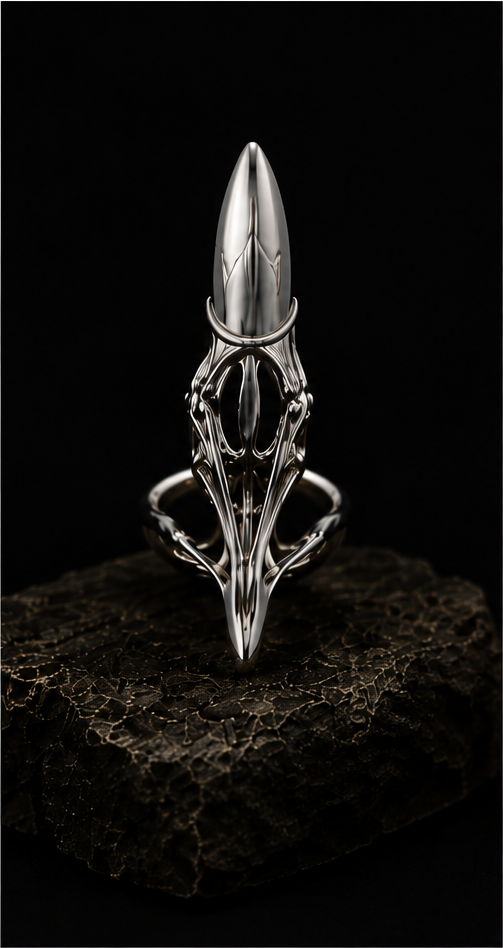
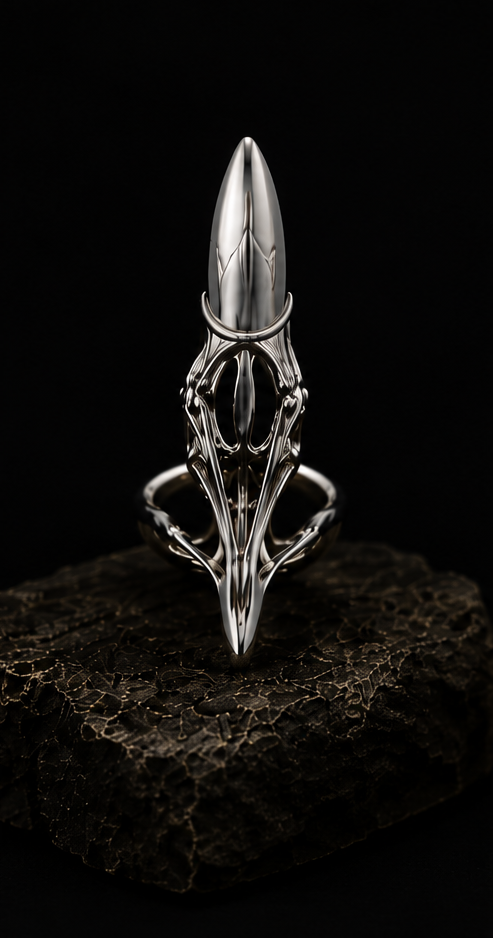
shop-v2: clean up the product hero
- Re-crop the gallery panels with a 5px inset; the previous cuts kept a
  sliver of the contact sheet's white gutter, which showed as white lines
  on the product images
- Main frame now matches the hero crop (493/938) with no box background,
  so the image fills edge to edge instead of sitting in a grey letterbox
- Full-bleed first section capped at 1680px with the Figma 177/530/422
  column proportions; thumb rail is absolute at desktop so the image alone
  sets the row height and the rail fills exactly that
- Info panel: rules between EMI / promo / details, coloured stock dots and
  × toggles with all three panels open by default

diff --git a/src/app/shop-v2/page.tsx b/src/app/shop-v2/page.tsx
@@ -85,7 +85,7 @@ const PRODUCT = {
   price: 15420,
   blurb:
     "Sculptural artifacts designed to be lived in. Forget the rules of gender, embrace the weight of identity.",
-  gallery: ["/shopv2/main.png", "/shopv2/thumb1.png", "/shopv2/thumb2.png", "/shopv2/thumb3.png", "/shopv2/thumb4.png"],
+  gallery: ["/shopv2/main.png", "/shopv2/thumb1.png", "/shopv2/thumb2.png", "/shopv2/thumb4.png"],
   finishes: [
     { label: "Silver", color: "#d9d9d9" },
     { label: "Gold", color: "#c0ab79" },
@@ -170,17 +170,20 @@ function Gallery() {
   const thumbs = PRODUCT.gallery;
 
   return (
-    <div className="flex gap-4 lg:gap-6">
-      {/* thumb rail */}
-      <div className="flex w-[74px] shrink-0 flex-col items-center gap-3 lg:w-[177px]">
+    // Figma: 177 thumb rail / 530 main, with a 68px gutter between them
+    <div className="grid grid-cols-[64px_1fr] gap-4 sm:grid-cols-[96px_1fr] lg:grid-cols-[177fr_530fr] lg:gap-[8.8%]">
+      {/* thumb rail — absolute at desktop so the main image alone sets the
+          row height, and the rail then fills exactly that */}
+      <div className="relative">
+      <div className="flex flex-col items-center gap-2 lg:absolute lg:inset-0 lg:gap-3">
         <button
           type="button"
           aria-label="Previous image"
           onClick={() => setActive((i) => Math.max(0, i - 1))}
           disabled={active === 0}
-          className="text-white/70 transition-colors hover:text-gold disabled:opacity-25"
+          className="py-2 text-white/80 transition-colors hover:text-gold disabled:opacity-25"
         >
-          <Chevron className="h-5 w-5 rotate-180" />
+          <Chevron className="h-6 w-6 rotate-180" />
         </button>
 
         {thumbs.map((src, i) => (
@@ -190,12 +193,12 @@ function Gallery() {
             aria-label={`View image ${i + 1}`}
             aria-current={active === i}
             onClick={() => setActive(i)}
-            className={`w-full overflow-hidden rounded-[3px] border transition-colors duration-300 ${
-              active === i ? "border-gold" : "border-transparent hover:border-white/30"
+            className={`min-h-0 w-full flex-1 overflow-hidden border transition-colors duration-300 ${
+              active === i ? "border-white/70" : "border-transparent hover:border-white/30"
             }`}
           >
             {/* eslint-disable-next-line @next/next/no-img-element */}
-            <img src={src} alt="" className="aspect-[177/167] w-full object-cover" />
+            <img src={src} alt="" className="block h-full w-full object-cover" />
           </button>
         ))}
 
@@ -204,14 +207,15 @@ function Gallery() {
           aria-label="Next image"
           onClick={() => setActive((i) => Math.min(thumbs.length - 1, i + 1))}
           disabled={active === thumbs.length - 1}
-          className="text-white/70 transition-colors hover:text-gold disabled:opacity-25"
+          className="py-2 text-white/80 transition-colors hover:text-gold disabled:opacity-25"
         >
-          <Chevron className="h-5 w-5" />
+          <Chevron className="h-6 w-6" />
         </button>
+      </div>
       </div>
 
       {/* main image */}
-      <div className="relative min-w-0 flex-1 overflow-hidden rounded-[3px] bg-[#0a0a0a]">
+      <div className="relative min-w-0 overflow-hidden">
         <AnimatePresence mode="wait">
           <motion.img
             key={thumbs[active]}
@@ -221,7 +225,7 @@ function Gallery() {
             animate={{ opacity: 1, scale: 1 }}
             exit={{ opacity: 0 }}
             transition={{ duration: 0.5, ease: EASE }}
-            className="aspect-[530/838] w-full object-cover"
+            className="aspect-[493/938] w-full object-contain"
           />
         </AnimatePresence>
       </div>
@@ -236,7 +240,7 @@ function Gallery() {
 function Info() {
   const [finish, setFinish] = useState(0);
   const [qty, setQty] = useState(1);
-  const [open, setOpen] = useState<number | null>(0);
+  const [open, setOpen] = useState<number[]>([0, 1, 2]);
   const addLocal = useCartStore((s) => s.addLocal);
   const openCart = useCartStore((s) => s.open);
   const anchor = useRef<HTMLDivElement>(null);
@@ -269,16 +273,22 @@ function Info() {
         Rs. {PRODUCT.price.toLocaleString("en-IN")}.00
       </p>
 
-      <p className="mt-4 font-ui text-[13px] text-[#c1b9b9]">
-        EMI starts at 449/month or pay later with Zest / Simpl.
+      <p className="mt-5 font-ui text-[13px] text-[#c1b9b9] sm:text-[14px]">
+        EMI starts at <span className="font-semibold text-white">449/month</span> or pay later with Zest / Simpl.
       </p>
 
-      <div className="mt-4 flex max-w-[422px] items-center justify-between gap-4 font-ui text-[13px]">
+      <div className="mt-5 h-px w-full bg-white/12" />
+
+      <div className="flex items-center justify-between gap-4 py-4 font-ui text-[13px] sm:text-[14px]">
         <span className="text-[#c1b9b9]">Get 10 % off your first order</span>
         <span className="font-bold tracking-[0.04em] text-gold">WELCOME10</span>
       </div>
 
-      <p className="mt-8 max-w-[301px] font-ui text-[13px] leading-[1.55] text-[#c1b9b9]">{PRODUCT.blurb}</p>
+      <div className="h-px w-full bg-white/12" />
+
+      <p className="mt-8 max-w-[330px] font-ui text-[13px] leading-[1.65] text-[#c1b9b9] sm:text-[14px]">
+        {PRODUCT.blurb}
+      </p>
 
       {/* finish */}
       <p className="mt-9 font-ui text-[12px] text-[#c1b9b9]">FINISH</p>
@@ -324,27 +334,29 @@ function Info() {
       </div>
 
       {/* stock line */}
-      <div className="mt-6 flex flex-wrap items-center gap-x-6 gap-y-2 font-ui text-[13px] text-[#c1b9b9]">
-        <span className="flex items-center gap-2"><span className="h-1 w-1 rounded-full bg-[#c1b9b9]" />In stock</span>
-        <span className="flex items-center gap-2"><span className="h-1 w-1 rounded-full bg-[#c1b9b9]" />Only 3 left</span>
-        <span className="flex items-center gap-2"><span className="h-1 w-1 rounded-full bg-[#c1b9b9]" />Ships in 1-2 days</span>
+      <div className="mt-7 flex flex-wrap items-center gap-x-7 gap-y-2 font-ui text-[13px] text-[#c1b9b9] sm:text-[14px]">
+        <span className="flex items-center gap-2"><span className="h-[5px] w-[5px] rounded-full bg-[#4ea570]" />In stock</span>
+        <span className="flex items-center gap-2"><span className="h-[5px] w-[5px] rounded-full bg-brand" />Only 3 left</span>
+        <span>Ships in 1-2 days</span>
       </div>
 
-      {/* detail accordions */}
-      <dl className="mt-10 max-w-[420px]">
+      {/* detail accordions — open by default, × toggles them shut */}
+      <dl className="mt-10 border-t border-white/12">
         {DETAILS.map((d, i) => {
-          const isOpen = open === i;
+          const isOpen = open.includes(i);
           return (
             <div key={d.title} className="border-b border-white/12 py-5">
               <dt>
                 <button
                   type="button"
                   aria-expanded={isOpen}
-                  onClick={() => setOpen(isOpen ? null : i)}
-                  className="flex w-full items-center justify-between gap-4 text-left font-ui text-[14px] text-white transition-colors hover:text-gold"
+                  onClick={() => setOpen((o) => (isOpen ? o.filter((n) => n !== i) : [...o, i]))}
+                  className="flex w-full items-center justify-between gap-4 text-left font-ui text-[15px] text-white transition-colors hover:text-gold sm:text-[16px]"
                 >
                   {d.title}
-                  <Chevron className={`h-4 w-4 shrink-0 transition-transform duration-300 ${isOpen ? "rotate-180" : ""}`} />
+                  <span className={`shrink-0 text-[16px] leading-none text-[#c1b9b9] transition-transform duration-300 ${isOpen ? "" : "rotate-45"}`}>
+                    ×
+                  </span>
                 </button>
               </dt>
               <AnimatePresence initial={false}>
@@ -356,7 +368,7 @@ function Info() {
                     transition={{ duration: 0.35, ease: EASE }}
                     className="overflow-hidden"
                   >
-                    <p className="pt-3 font-ui text-[13px] leading-[1.6] text-[#b8b8b8]">{d.body}</p>
+                    <p className="pt-4 font-ui text-[13px] leading-[1.6] text-[#b8b8b8] sm:text-[14px]">{d.body}</p>
                   </motion.dd>
                 )}
               </AnimatePresence>
@@ -467,8 +479,9 @@ export default function ShopV2Page() {
       <Header />
       <main className="bg-[#020202] font-ui text-white">
         {/* gallery + info */}
-        <section className={`${SHELL} pb-16 pt-[128px] lg:pb-20 lg:pt-[150px]`}>
-          <div className="grid gap-12 lg:grid-cols-[1fr_0.63fr] lg:gap-16">
+        {/* full-bleed: 775 (rail+main) / 422 info, per the Figma margins */}
+        <section className="mx-auto w-full max-w-[1680px] px-6 pb-16 pt-[120px] sm:px-10 lg:px-[4.2%] lg:pb-20 lg:pt-[150px]">
+          <div className="grid gap-12 lg:grid-cols-[775fr_422fr] lg:gap-[6.6%]">
             <Gallery />
             <Info />
           </div>
